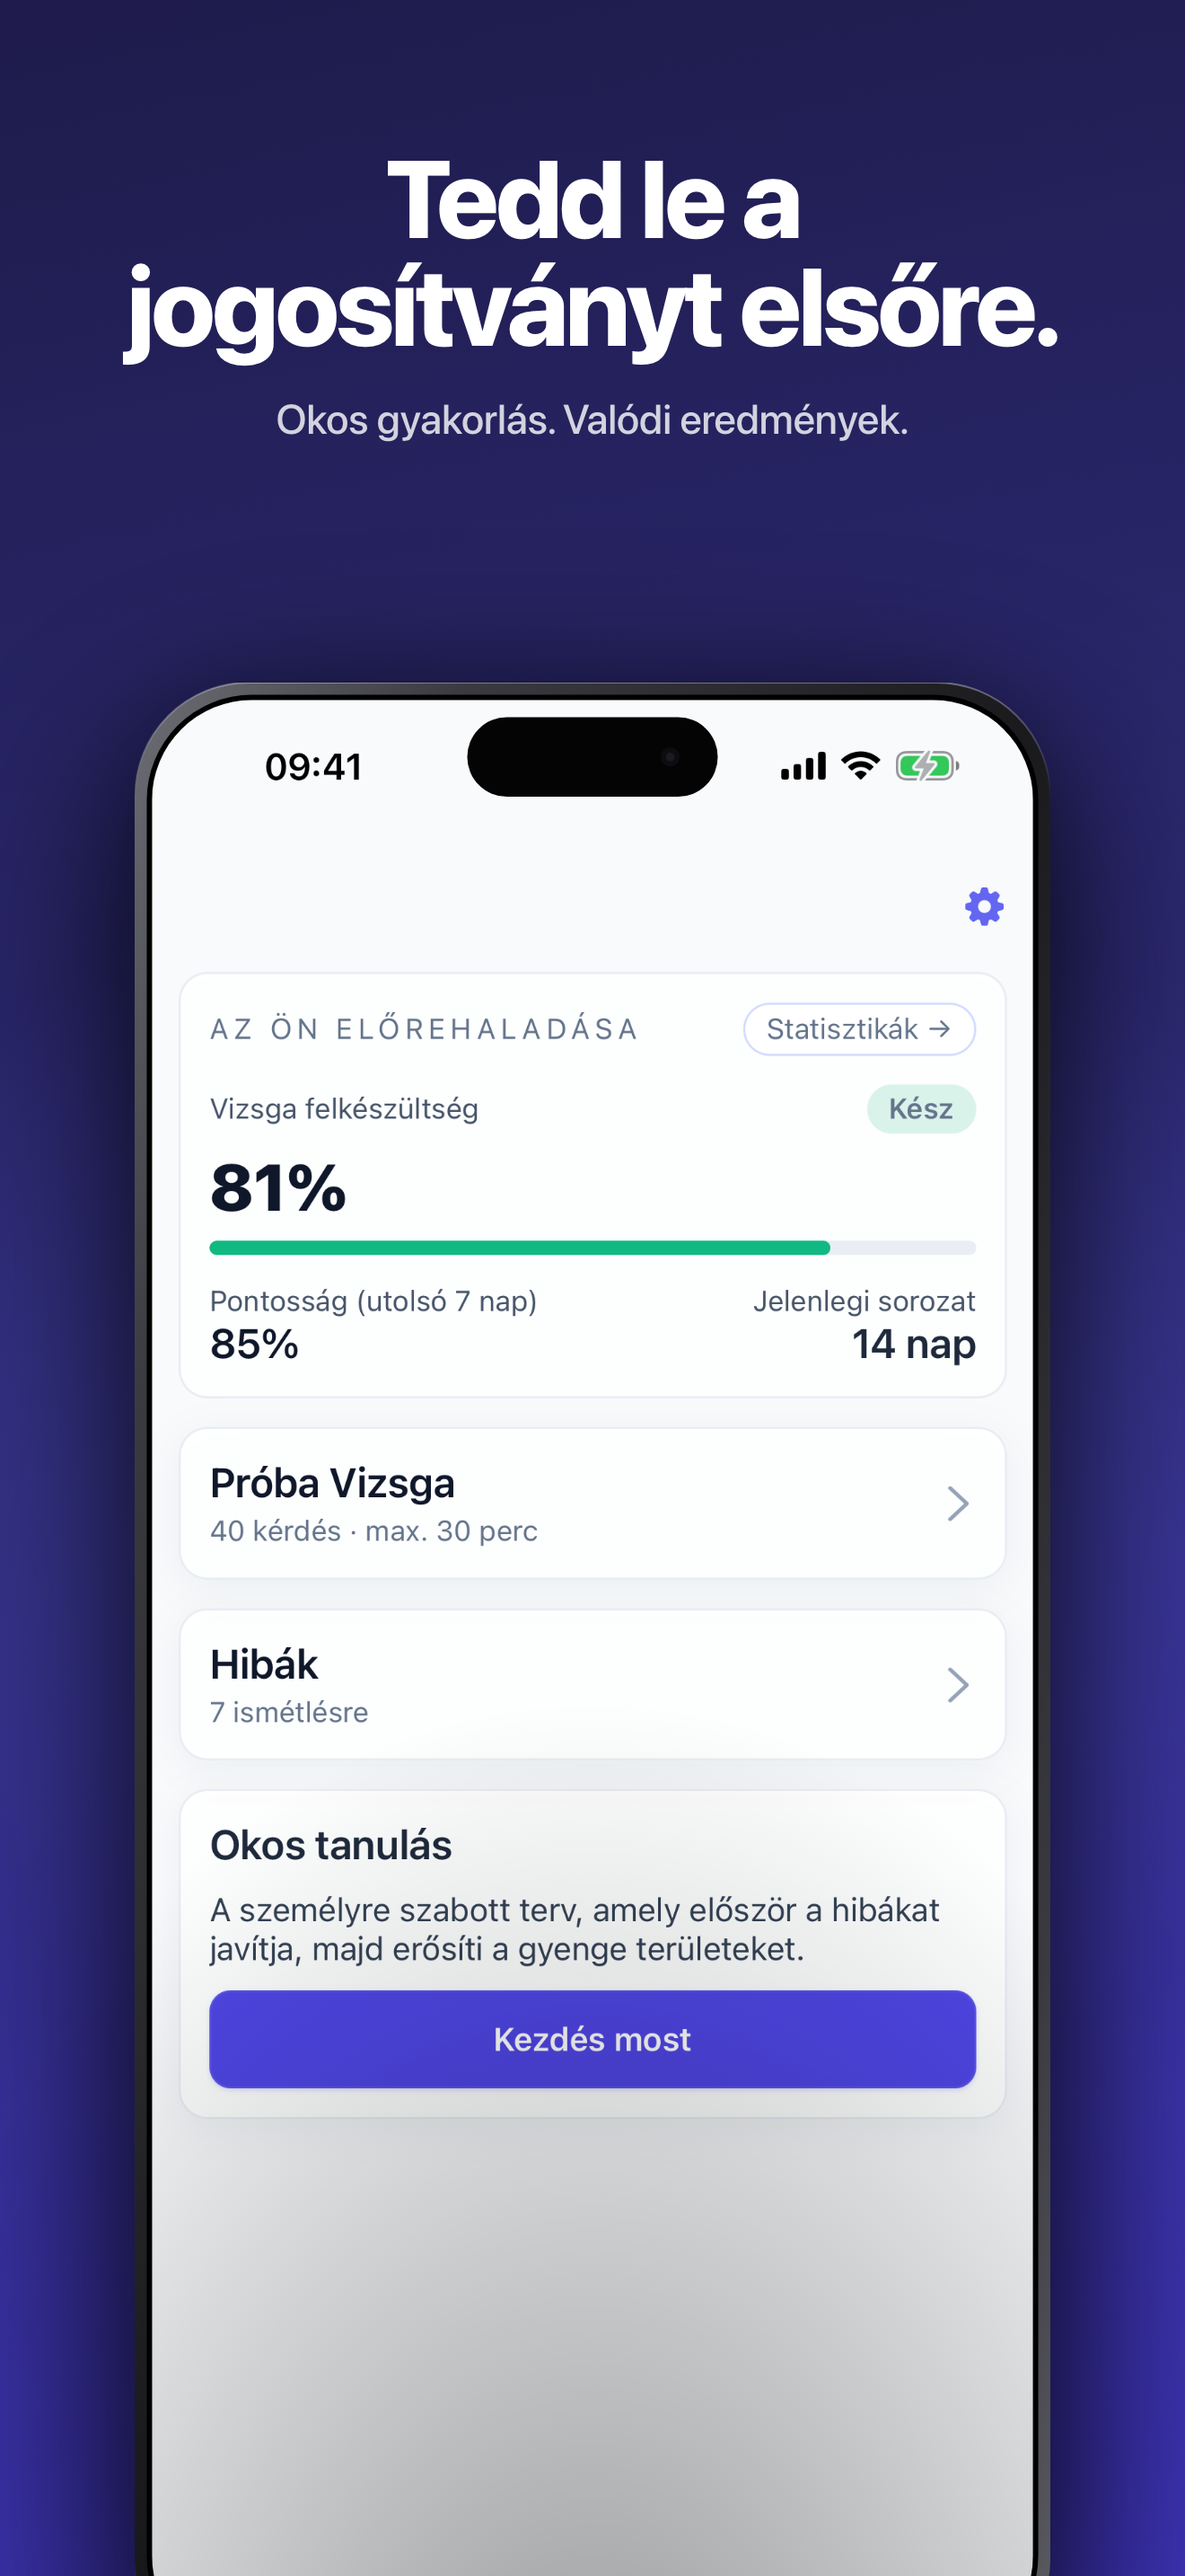
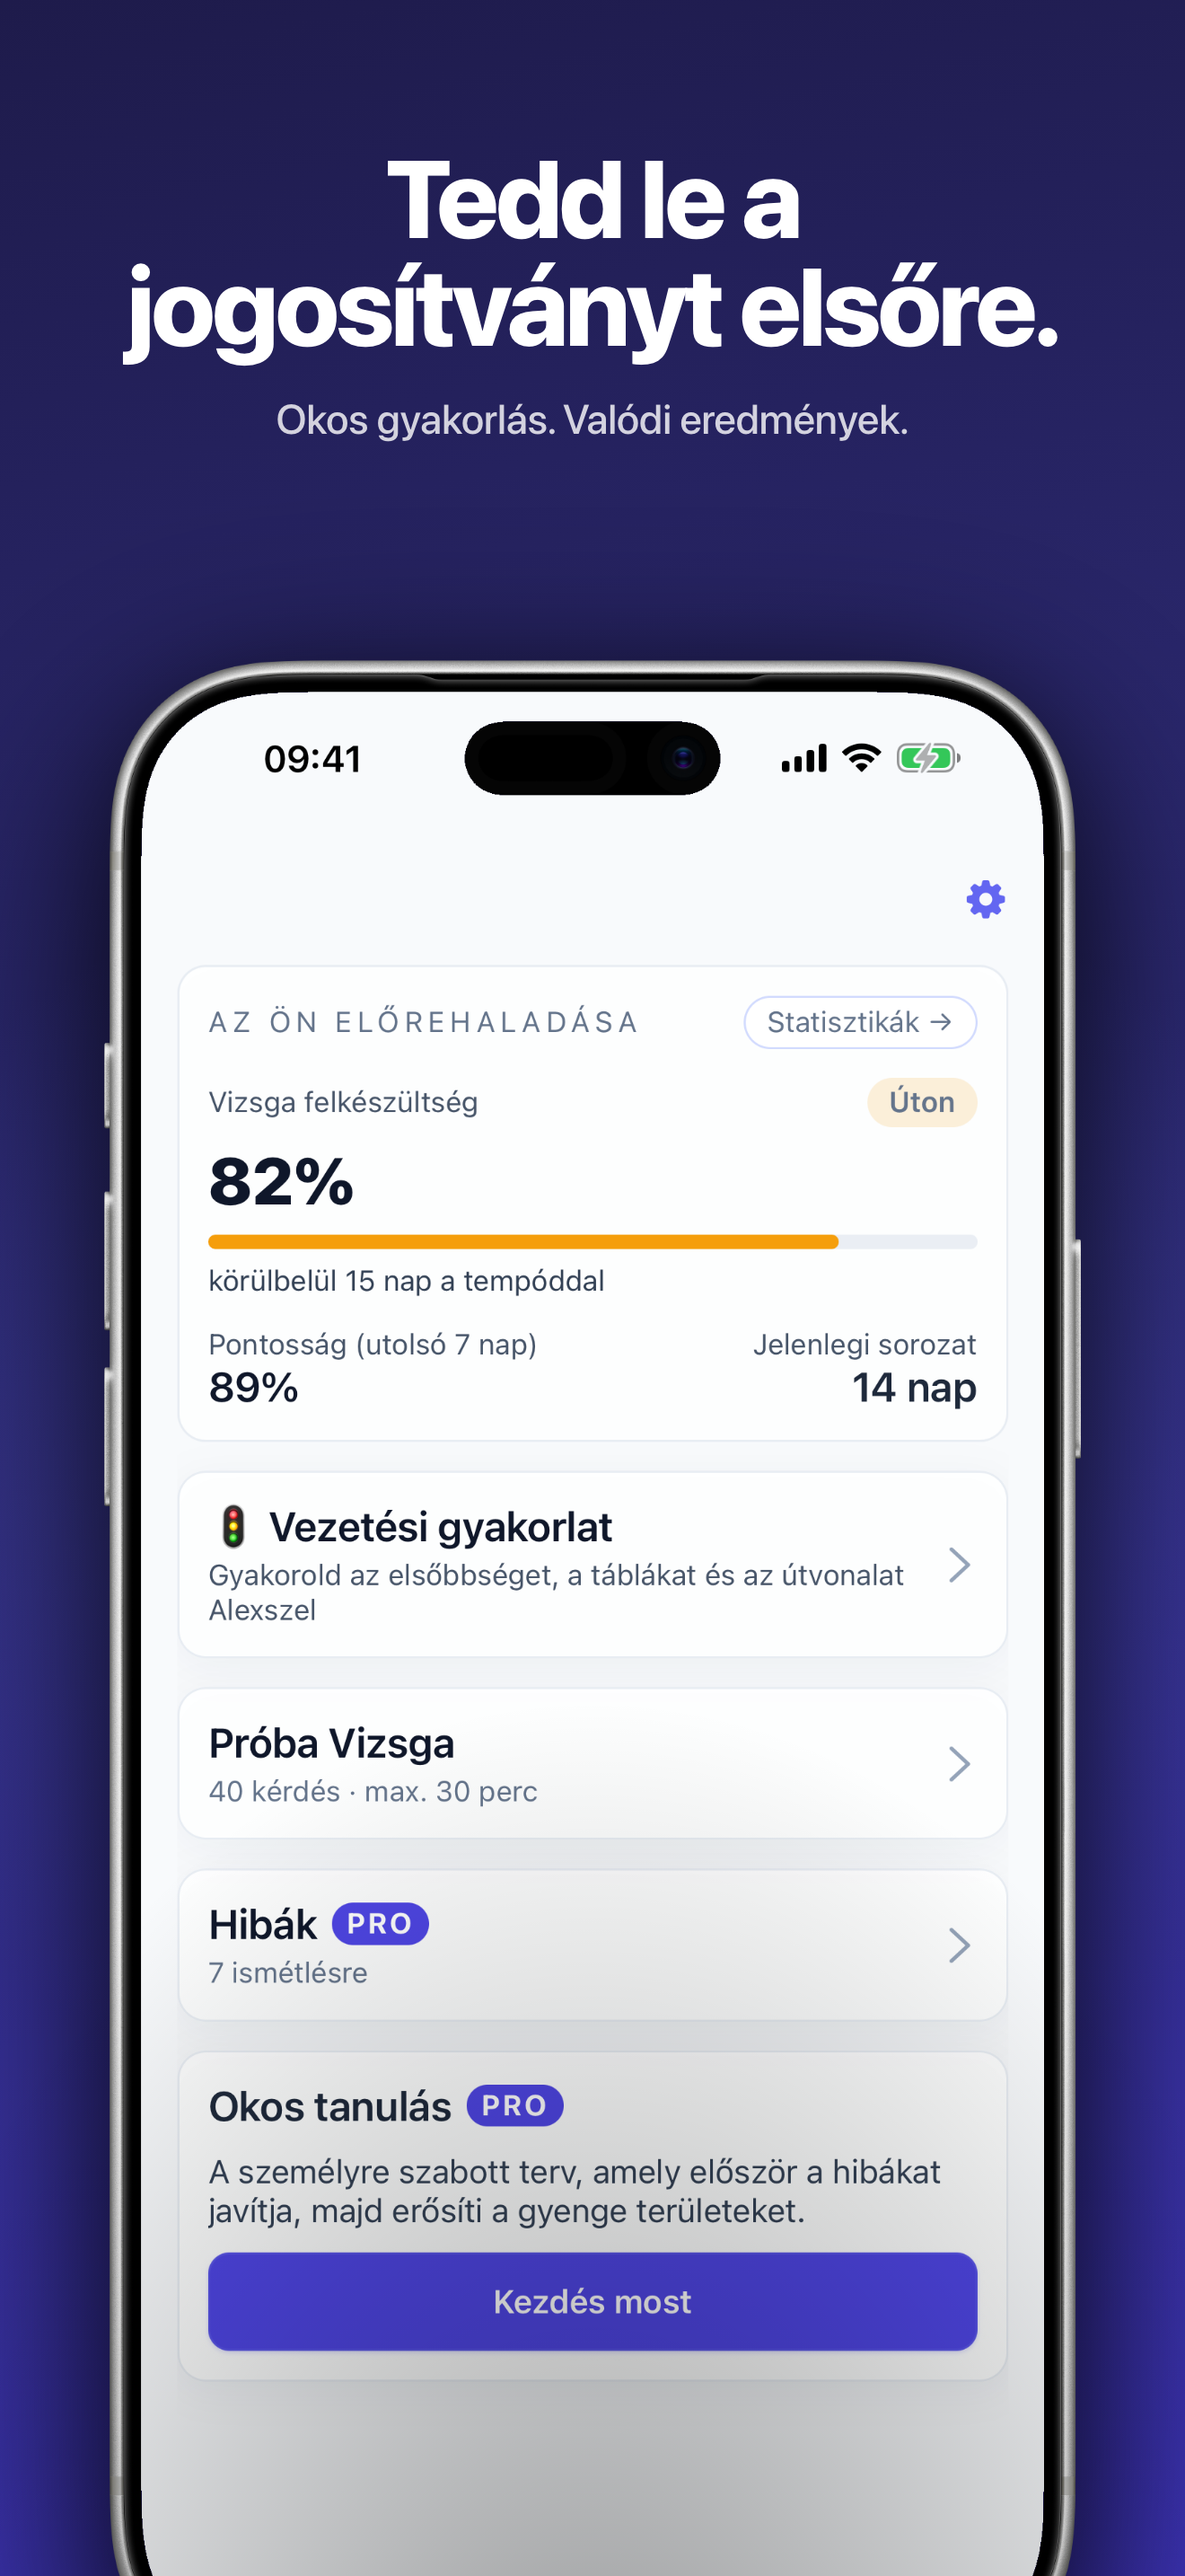
Add the driving game to the App Store screenshots and listing
New slot 2 shows a live drive (instructor prompt, traffic, signs) in EN/SK/HU,
and the trust grid swaps the mistakes badge for the free junction game. The
seed now has accuracy climbing over two weeks so the readiness forecast reads
about two weeks instead of more than 90 days. Descriptions gain a driving
section and a promo-code line. compose.py, frame.png and screen_mask.png,
which render.js already used, are now tracked.

Claude-Session: https://claude.ai/code/session_01UeksiHd2iTF24nPw6Gtsm1

diff --git a/docs/appstore/_tools/seed.js b/docs/appstore/_tools/seed.js
@@ -5,8 +5,10 @@
  *   node seed.js | sqlite3 <path-to-driver.db>
  *
  * Seeds Slovak (1), English (2) and Hungarian (3):
- *   - ~14 consecutive days of study answer_attempts at ~85% accuracy
- *     (drives the streak, 7-day accuracy, coverage and readiness score)
+ *   - ~14 consecutive days of study answer_attempts, accuracy climbing from
+ *     ~80% to ~92% (drives the streak, 7-day accuracy, coverage, readiness
+ *     score, and a forecast with a real improvement trend; flat accuracy makes
+ *     the forecast read "more than 90 days")
  *   - 5 completed mock exams, 4 passed
  *   - 7 mistakes referencing real question ids (so the Mistakes screen
  *     renders actual questions)
@@ -79,12 +81,13 @@ sql.push("DELETE FROM mistakes;");
 
 let n = 0;
 for (const lang of [1, 2, 3]) {
-  // ---- answer_attempts: 14 days, ~45/day, ~85% correct ----
+  // ---- answer_attempts: 14 days, ~45/day, accuracy rising ~80% -> ~92% ----
   for (let d = 13; d >= 0; d--) {
     const dayStart = midnight - d * DAY;
     for (let i = 0; i < 45; i++) {
       const qid = POOL[(d * 45 + i) % POOL.length];
-      const correct = ((d * 45 + i) % 20) !== 0 && ((d * 45 + i) % 20) !== 7 && ((d * 45 + i) % 20) !== 13 ? 1 : 0; // ~85%
+      const wrongPct = 8 + Math.round((d * 12) / 13); // 20% wrong 13 days ago, 8% today
+      const correct = ((d * 45 + i) * 37) % 100 >= wrongPct ? 1 : 0;
       const shown = dayStart + 8 * 3600 + i * 47 + (d % 5) * 11;
       const rt = 4200 + ((i * 137) % 9000);
       const submitted = shown + Math.round(rt / 1000);
@@ -126,7 +129,7 @@ for (const lang of [1, 2, 3]) {
 // auto-incremented id would be ignored and the app would re-show onboarding.
 sql.push("DELETE FROM settings;");
 sql.push(
-  `INSERT INTO settings (id,lang,has_onboarded,has_chosen_language,use_conservative_readiness,analytics_opt_out,notification_morning_enabled,notification_lunch_enabled,notification_evening_enabled,created_at,updated_at) VALUES (1,2,1,1,0,0,1,1,1,${now},${now});`
+  `INSERT INTO settings (id,lang,has_onboarded,has_chosen_language,use_conservative_readiness,analytics_opt_out,notification_morning_enabled,notification_lunch_enabled,notification_evening_enabled,has_finished_guide,created_at,updated_at) VALUES (1,2,1,1,0,0,1,1,1,1,${now},${now});`
 );
 
 process.stdout.write('BEGIN;\n' + sql.join('\n') + '\nCOMMIT;\n');

diff --git a/docs/appstore/_tools/render.js b/docs/appstore/_tools/render.js
@@ -5,7 +5,7 @@
  *   node render.js
  *
  * Inputs:
- *   docs/appstore/captions.json                 7 slots; per-slot template + accent
+ *   docs/appstore/captions.json                 8 slots; per-slot template + accent
  *   docs/appstore/raw/<lang>/<id>.png           1320x2868 simulator captures
  *                                               (only needed for hero + feature)
  *   docs/appstore/_tools/template-<type>.html   one per template variant
@@ -13,7 +13,7 @@
  * Output: docs/appstore/framed/<lang>/<order>-<id>.png  (1320x2868 framed)
  *
  * Templates:
- *   feature  caption above phone (slots 2-5)
+ *   feature  caption above phone (slots 2-6)
  *   hero     bigger caption + trial pill + phone (slot 1)
  *   trust    caption + 2x3 grid of feature badges, no phone
  *   cta      giant headline + ribbon, no phone
@@ -42,6 +42,7 @@ const THEMES = {
   rose:    { BG_A: '#4c0519', BG_B: '#881337', BG_C: '#be123c', GLOW: 'rgba(251,113,133,0.38)' },
   amber:   { BG_A: '#451a03', BG_B: '#78350f', BG_C: '#b45309', GLOW: 'rgba(251,191,36,0.36)' },
   emerald: { BG_A: '#022c22', BG_B: '#064e3b', BG_C: '#047857', GLOW: 'rgba(52,211,153,0.38)' },
+  violet:  { BG_A: '#2e1065', BG_B: '#4c1d95', BG_C: '#6d28d9', GLOW: 'rgba(167,139,250,0.40)' },
 };
 
 const esc = (s) => String(s ?? '').replace(/&/g, '&amp;').replace(/</g, '&lt;').replace(/>/g, '&gt;');

diff --git a/docs/appstore/_tools/compose.py b/docs/appstore/_tools/compose.py
@@ -1,0 +1,38 @@
+#!/usr/bin/env python3
+"""Composite a 1320x2868 capture into the iPhone 17 Pro Max frame, pixel-exact.
+
+    compose.py <frame.png> <capture.png> <out.png>
+
+The capture is pasted at the measured screen cut-out (75,66) and then clipped to
+screen_mask.png — the frame's *interior* transparent region (rounded screen,
+exterior excluded), precomputed once from the frame. Without the mask the
+capture's square corners spill into the transparent area above the device's
+rounded top. Finally the frame is laid on top so its bezel and Dynamic Island
+mask the edges.
+"""
+import os
+import sys
+import numpy as np
+from PIL import Image
+
+CUT_X, CUT_Y = 75, 66
+HERE = os.path.dirname(os.path.abspath(__file__))
+
+frame_p, shot_p, out_p = sys.argv[1:4]
+frame = Image.open(frame_p).convert("RGBA")
+shot = Image.open(shot_p).convert("RGBA")
+mask = Image.open(os.path.join(HERE, "screen_mask.png")).convert("L")
+
+if shot.size != (1320, 2868):
+    shot = shot.resize((1320, 2868), Image.LANCZOS)
+
+canvas = Image.new("RGBA", frame.size, (0, 0, 0, 0))
+canvas.paste(shot, (CUT_X, CUT_Y))
+
+# Clip the pasted capture to the rounded screen region.
+r, g, b, al = canvas.split()
+al = Image.fromarray(np.minimum(np.array(al), np.array(mask)).astype("uint8"))
+canvas = Image.merge("RGBA", (r, g, b, al))
+
+canvas.alpha_composite(frame)
+canvas.save(out_p)

diff --git a/docs/appstore/metadata.md b/docs/appstore/metadata.md
@@ -24,7 +24,7 @@ Full-length mock exams and smart practice that targets exactly what trips you up
 ### Keywords (100)
 driving,theory,licence,license,exam,test,quiz,practice,mock,signs,traffic,rules,road,permit,Slovakia
 
-### Description (2223)
+### Description (2692)
 Pass the Slovak driving theory test with focused, modern practice — in Slovak, English, or Hungarian.
 
 Driver SK turns the official question bank into a study plan that adapts to you. Instead of grinding through random questions, you practice exactly what you keep getting wrong, take realistic mock exams, and watch your readiness climb day by day.
@@ -41,6 +41,9 @@ Every wrong answer goes into a dedicated review deck with spaced repetition, so 
 TRACK YOUR READINESS
 A clear readiness score, accuracy trends, daily streaks, and category breakdowns show your progress at a glance and keep you motivated.
 
+LEARN RIGHT OF WAY BY DRIVING
+Drive through endless Slovak junctions in a top-down game where every other car follows the real priority rules: signs, traffic lights, the right-hand rule, trams and roundabouts. A step-by-step guide first teaches the controls and every type of junction, and the drive log explains each decision afterwards. Plus a timed quiz built from the official junction pictures.
+
 STUDY ANYWHERE
 Fully offline. The entire question bank — including road-sign images — works with no connection: on the bus, in a queue, anywhere.
 
@@ -54,9 +57,10 @@ Whether you're starting from zero or doing a final review the night before, Driv
 
 — Driver SK Pro —
 Unlock unlimited Smart Study and Mistakes review:
-• Weekly
-• Yearly (with a 3-day free trial)
+• Weekly or Yearly, each with a 3-day free trial
 • Lifetime — pay once, keep access forever
+
+Have a promo code? Redeem it in Settings or on the Pro screen.
 
 Payment is charged to your Apple ID at confirmation of purchase. Subscriptions renew automatically unless canceled at least 24 hours before the end of the current period. Manage or cancel anytime in your App Store account settings. Any unused portion of a free trial is forfeited when you buy a subscription.
 
@@ -73,7 +77,7 @@ Plné skúšobné testy a inteligentné štúdium presne na tvoje slabiny — a 
 ### Keywords (99)
 vodičák,autoškola,vodičský,preukaz,testy,skúška,teória,značky,doprava,otázky,kvíz,pravidlá,príprava
 
-### Description (2204)
+### Description (2654)
 Priprav sa na skúšku z autoškoly modernou a cielenou prípravou — v slovenčine, angličtine alebo maďarčine.
 
 Driver SK premení oficiálnu databázu otázok na študijný plán, ktorý sa prispôsobí tebe. Namiesto náhodných otázok precvičuješ presne to, čo ti nejde, píšeš realistické skúšobné testy a sleduješ, ako tvoja pripravenosť každý deň rastie.
@@ -90,6 +94,9 @@ Každá nesprávna odpoveď ide do samostatného opakovania rozloženého v čas
 SLEDUJ SVOJU PRIPRAVENOSŤ
 Jasné skóre pripravenosti, vývoj presnosti, denné série a rozpis podľa okruhov ti na prvý pohľad ukážu pokrok a udržia ťa motivovaným.
 
+PREDNOSŤ V JAZDE ZA VOLANTOM
+Prejdi nekonečné slovenské križovatky v hre, kde každé auto dodržiava skutočné pravidlá prednosti: značky, semafory, pravidlo pravej ruky, električky aj kruhové objazdy. Sprievodca ťa najprv krok po kroku naučí ovládanie a každý typ križovatky a denník jázd potom vysvetlí každé rozhodnutie. K tomu rýchly kvíz z oficiálnych obrázkov križovatiek.
+
 ŠTUDUJ KDEKOĽVEK
 Úplne offline. Celá databáza otázok — vrátane obrázkov dopravných značiek — funguje aj bez pripojenia: v autobuse, v rade, kdekoľvek.
 
@@ -103,9 +110,10 @@ Jemné, voliteľné pripomienky ti pomôžu udržať sériu a pravidelnosť — 
 
 — Driver SK Pro —
 Odomkni neobmedzené Inteligentné štúdium a opakovanie chýb:
-• Týždenne
-• Ročne (s 3-dňovou skúškou zadarmo)
+• Týždenne alebo ročne, vždy s 3-dňovou skúškou zadarmo
 • Doživotne — zaplať raz a maj prístup navždy
+
+Máš promo kód? Uplatni ho v Nastaveniach alebo na obrazovke Pro.
 
 Platba sa strhne z tvojho Apple ID pri potvrdení nákupu. Predplatné sa automaticky obnovuje, ak ho nezrušíš aspoň 24 hodín pred koncom obdobia. Spravovať alebo zrušiť ho môžeš kedykoľvek v nastaveniach Apple ID. Nevyužitá časť skúšobného obdobia zaniká pri kúpe predplatného.
 
@@ -122,7 +130,7 @@ Teljes próbavizsgák és okos gyakorlás pontosan a gyenge pontjaidra, majd ism
 ### Keywords (100)
 jogosítvány,jogsi,szlovák,vezetés,KRESZ,vizsga,tesztek,elmélet,táblák,közlekedés,szabályok,gyakorlás
 
-### Description (2234)
+### Description (2738)
 Készülj a szlovák KRESZ-vizsgára modern, célzott gyakorlással — szlovákul, angolul vagy magyarul.
 
 A Driver SK a hivatalos kérdésbankot személyre szabott tanulási tervvé alakítja. Véletlenszerű kérdések helyett pontosan azt gyakorlod, ami nem megy, valódi próbavizsgákat írsz, és napról napra látod, ahogy nő a felkészültséged.
@@ -139,6 +147,9 @@ Minden rossz válasz külön ismétlő paklimba kerül, időzített ismétlésse
 KÖVESD A FELKÉSZÜLTSÉGED
 Egyértelmű felkészültségi pont, pontossági trendek, napi sorozatok és kategóriánkénti bontás egy pillantásra megmutatják a fejlődésed, és motiválnak.
 
+ELSŐBBSÉG VEZETÉS KÖZBEN
+Vezess végtelen szlovák kereszteződéseken egy játékban, ahol minden autó a valódi elsőbbségi szabályokat követi: táblák, jelzőlámpák, jobbkéz-szabály, villamosok és körforgalmak. Egy lépésről lépésre haladó útmutató előbb megtanítja az irányítást és minden kereszteződéstípust, a menetnapló pedig utólag elmagyaráz minden döntést. Emellett egy időre menő kvíz a hivatalos kereszteződés-ábrákból.
+
 TANULJ BÁRHOL
 Teljesen offline. A teljes kérdésbank — a közlekedési táblák képeivel együtt — internet nélkül is működik: buszon, sorban állva, bárhol.
 
@@ -152,9 +163,10 @@ Akár nulláról kezded, akár az utolsó ismétlést végzed a vizsga előtti e
 
 — Driver SK Pro —
 Oldd fel a korlátlan Okos tanulást és hibajavítást:
-• Hetente
-• Évente (3 napos ingyenes próbával)
+• Hetente vagy évente, mindkettő 3 napos ingyenes próbával
 • Örökre — fizess egyszer, és örökre a tiéd
+
+Van promóciós kódod? Váltsd be a Beállításokban vagy a Pro képernyőn.
 
 A fizetés az Apple ID-dről történik a vásárlás megerősítésekor. Az előfizetés automatikusan megújul, hacsak nem mondod le legalább 24 órával az időszak vége előtt. Bármikor kezelheted vagy lemondhatod az Apple ID beállításaiban. Az ingyenes próba fel nem használt része elvész előfizetés vásárlásakor.
 

diff --git a/docs/appstore/README.md b/docs/appstore/README.md
@@ -4,13 +4,13 @@
 
 ```
 raw/<lang>/<screen>.png         clean simulator captures (hero + feature slots only)
-framed/<lang>/NN-<screen>.png   marketing renders: SVG iPhone 17 Pro frame + caption + gradient
+framed/<lang>/NN-<screen>.png   marketing renders: iPhone 17 Pro Max frame + caption + gradient
 captions.json                   per-slot caption/sub/template/accent + per-badge free/pro tags
 _tools/template-<variant>.html  hero / feature / trust / cta (trust + cta are pure compositions)
 _tools/render.js                composes raws + templates into framed PNGs
 ```
 
-7 slots per language: home (hero) → mock → study → mistakes → stats → trust (composition) → cta (composition).
+8 slots per language: home (hero) → drive → mock → study → mistakes → stats → trust (composition) → cta (composition).
 Trust and CTA are pure HTML compositions and need no raw capture — they render from data in `captions.json`.
 
 Upload the **framed** PNGs to App Store Connect (6.9" iPhone slot), in numeric order.
@@ -44,6 +44,9 @@ maestro --device $SIM test -e LANG_DIR=hu docs/appstore/_tools/capture.yaml
 
 # 4. Frame them
 node docs/appstore/_tools/render.js
+
+# 5. 6.5" set (1242 × 2688) for the second required iPhone size
+for f in docs/appstore/framed/*/*.png; do o=${f/framed/framed-6.5}; mkdir -p $(dirname $o); sips -z 2688 1242 "$f" --out "$o" >/dev/null; done
 ```
 
 ## Notes / gotchas
@@ -53,11 +56,16 @@ node docs/appstore/_tools/render.js
 - Capture uses `driver://<route>` deep links to bypass the Home Pro-gate. Run on
   a freshly-booted sim — stray `simctl openurl` dialogs from prior runs stack up
   and hide the screen from Maestro. A `simctl shutdown/boot` flushes them.
+- The drive slot opens `/crossing` with the guide marked finished (by `seed.js`), so
+  it is a normal drive shot the moment the scene mounts. The road is random in a
+  Release build, so check each language's `raw/<lang>/drive.png` and re-run the
+  flow if a capture shows an empty junction.
+- `_tools/compose.py` pastes each capture into `_tools/frame.png` (Apple's iPhone
+  17 Pro Max frame) clipped by `_tools/screen_mask.png`; needs Python with Pillow
+  and numpy.
 - Edit copy in `captions.json` and re-run only step 4 to re-frame without recapturing.
 - Trust slot badges live in `captions.json` per-language; `tag: "free"` or `tag: "pro"`
   picks the corner badge (green or amber). Keep counts symmetric across languages or
   the grid breaks.
-- The SVG iPhone frame is inlined in `template-hero.html` and `template-feature.html`
-  (titanium gradient bezel, real Dynamic Island, side buttons, home indicator). The
-  captured screenshot is referenced as `<image href>` inside the SVG and clipped to
-  the inner rounded-rect screen area.
+- `template-hero.html` and `template-feature.html` place the composited device
+  image (`{{DEVICE}}`) produced by `compose.py`; they no longer draw a frame themselves.
